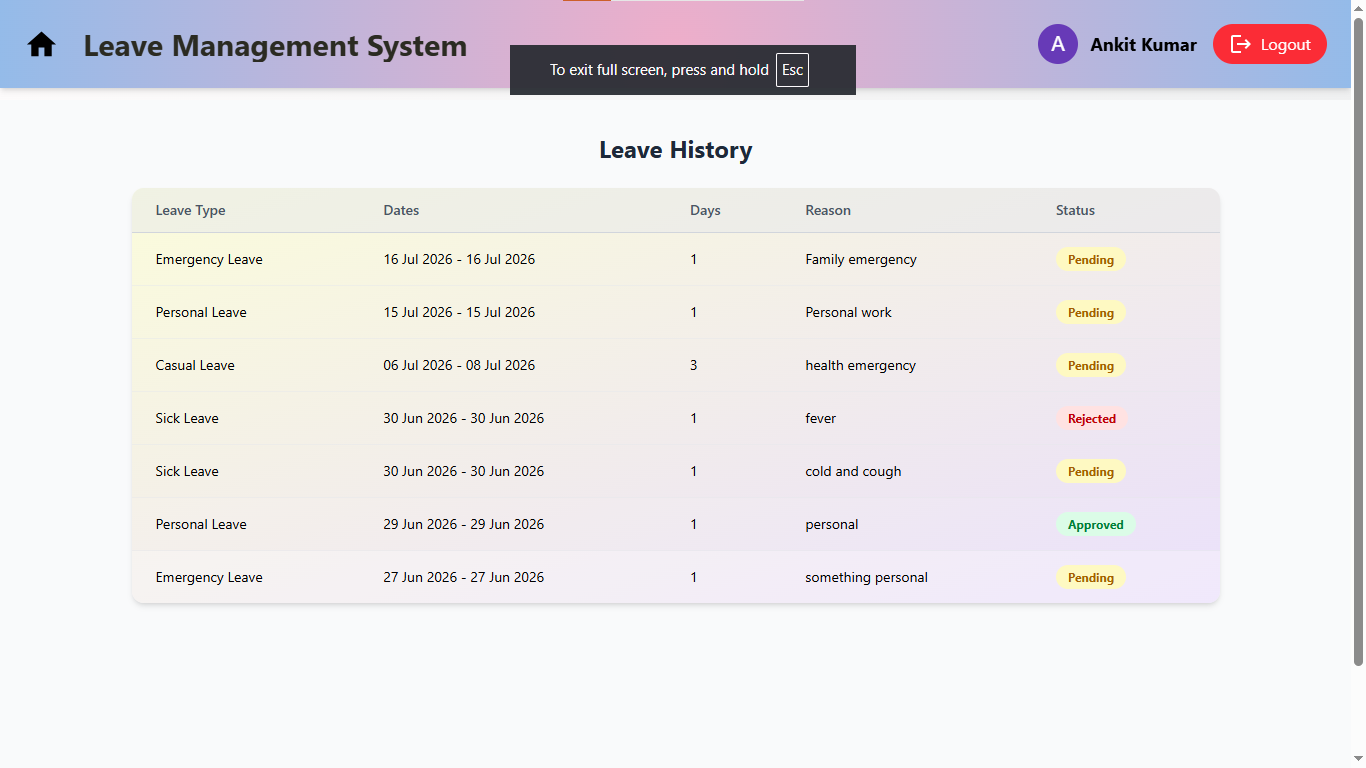
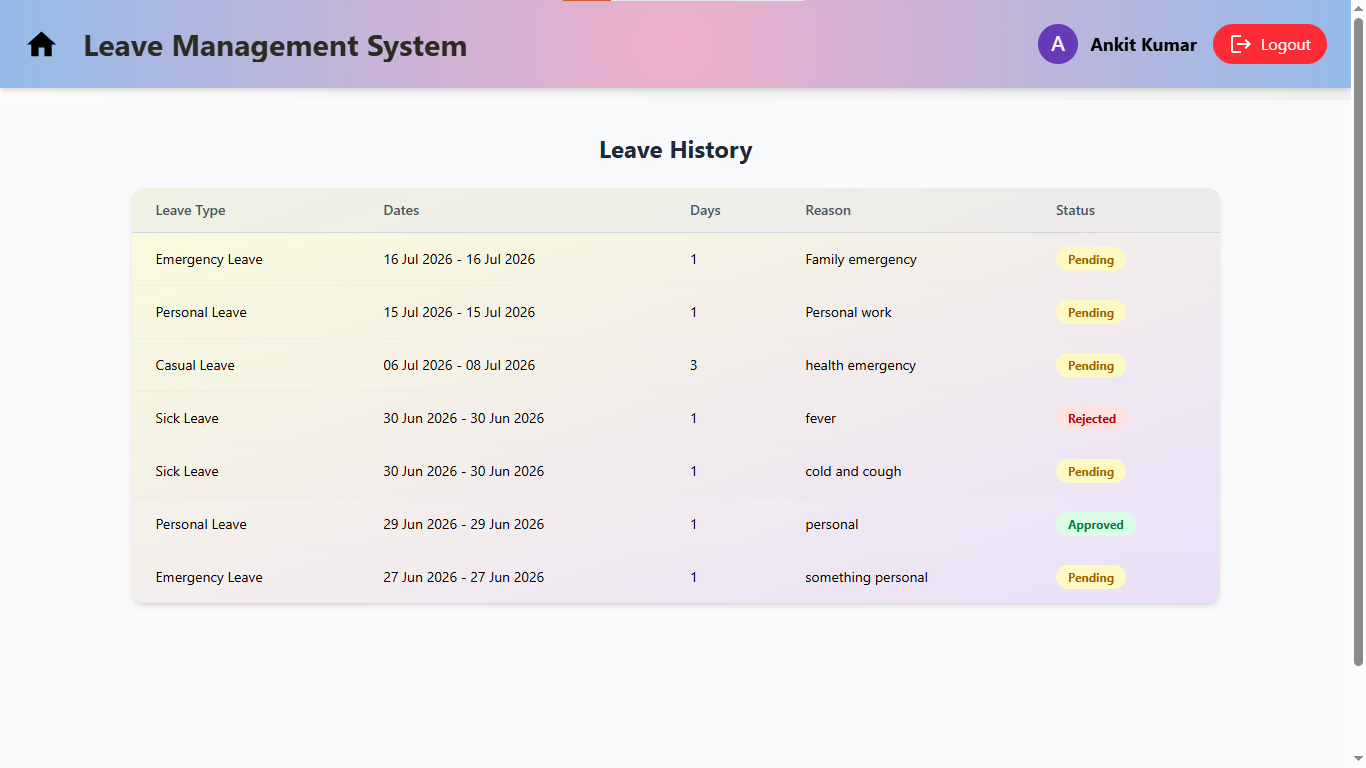
Added Screenshots

Changed region(s): [[0.369, 0.0312, 0.6457, 0.125]]

diff --git a/README.md b/README.md
@@ -77,6 +77,8 @@ Leave Management System/
 │   ├── vercel.json
 │   └── package.json
 │
+|── screenshots/
+|
 └── README.md
 ```
 
